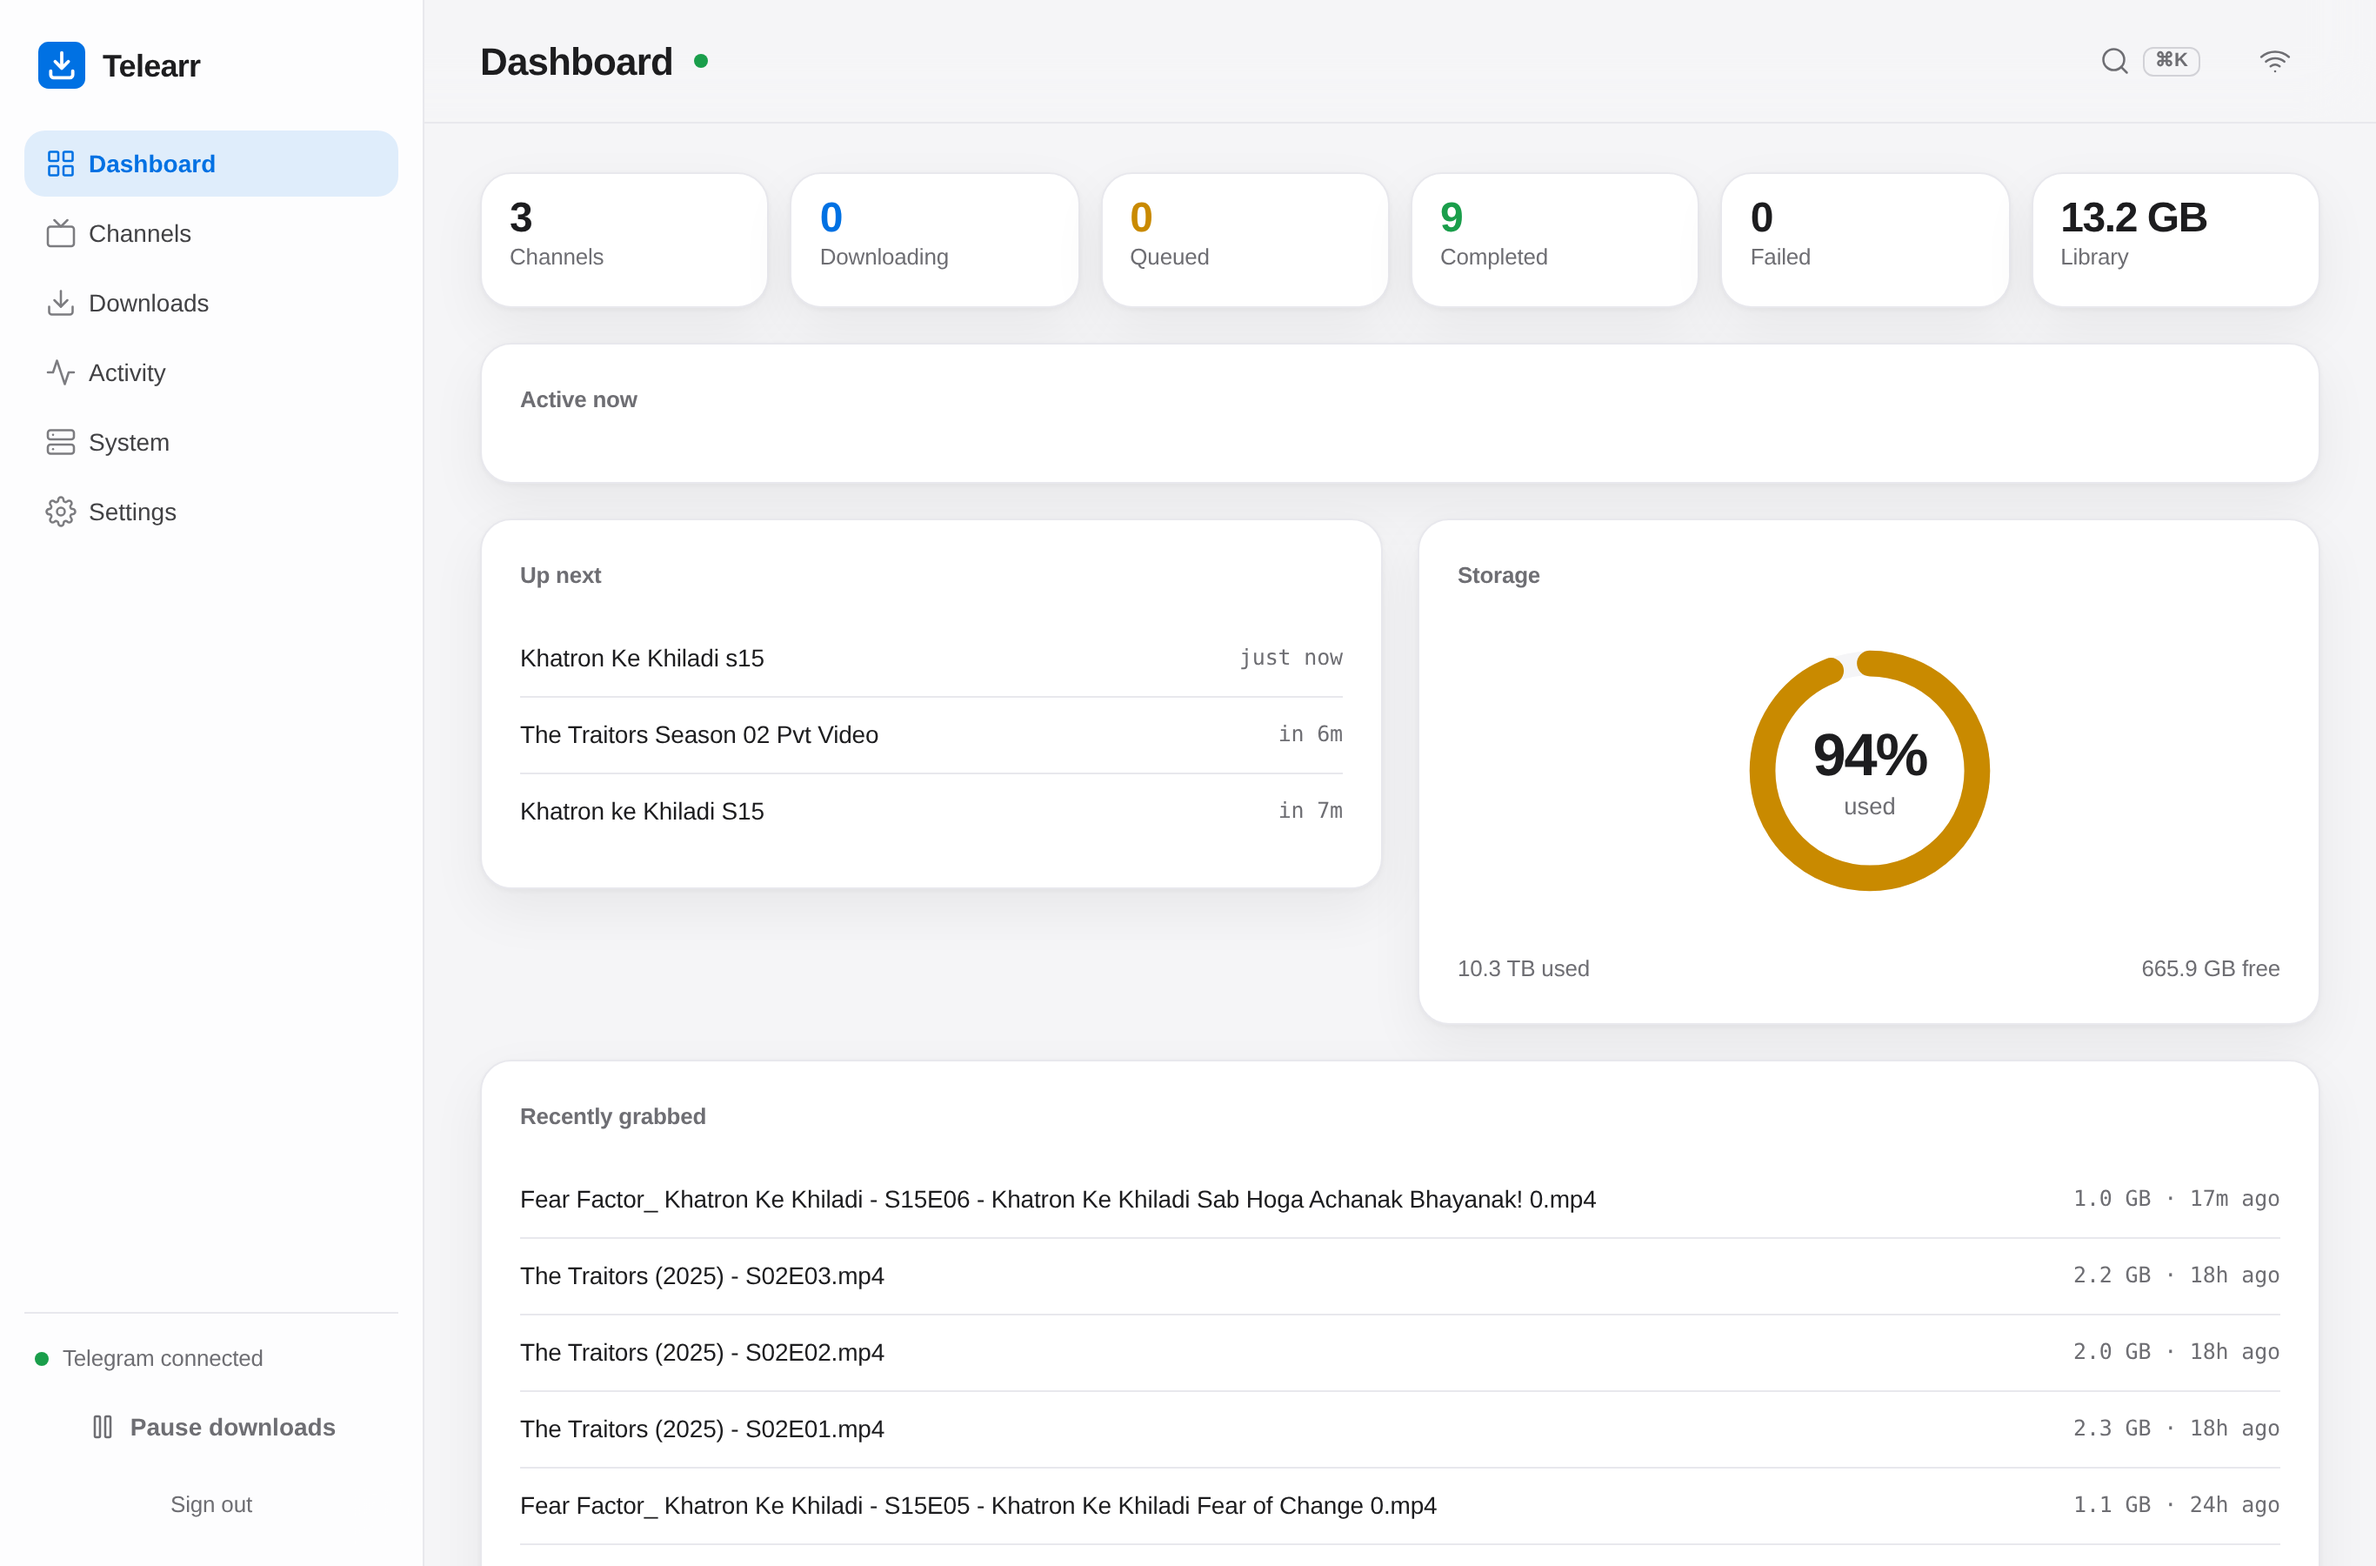
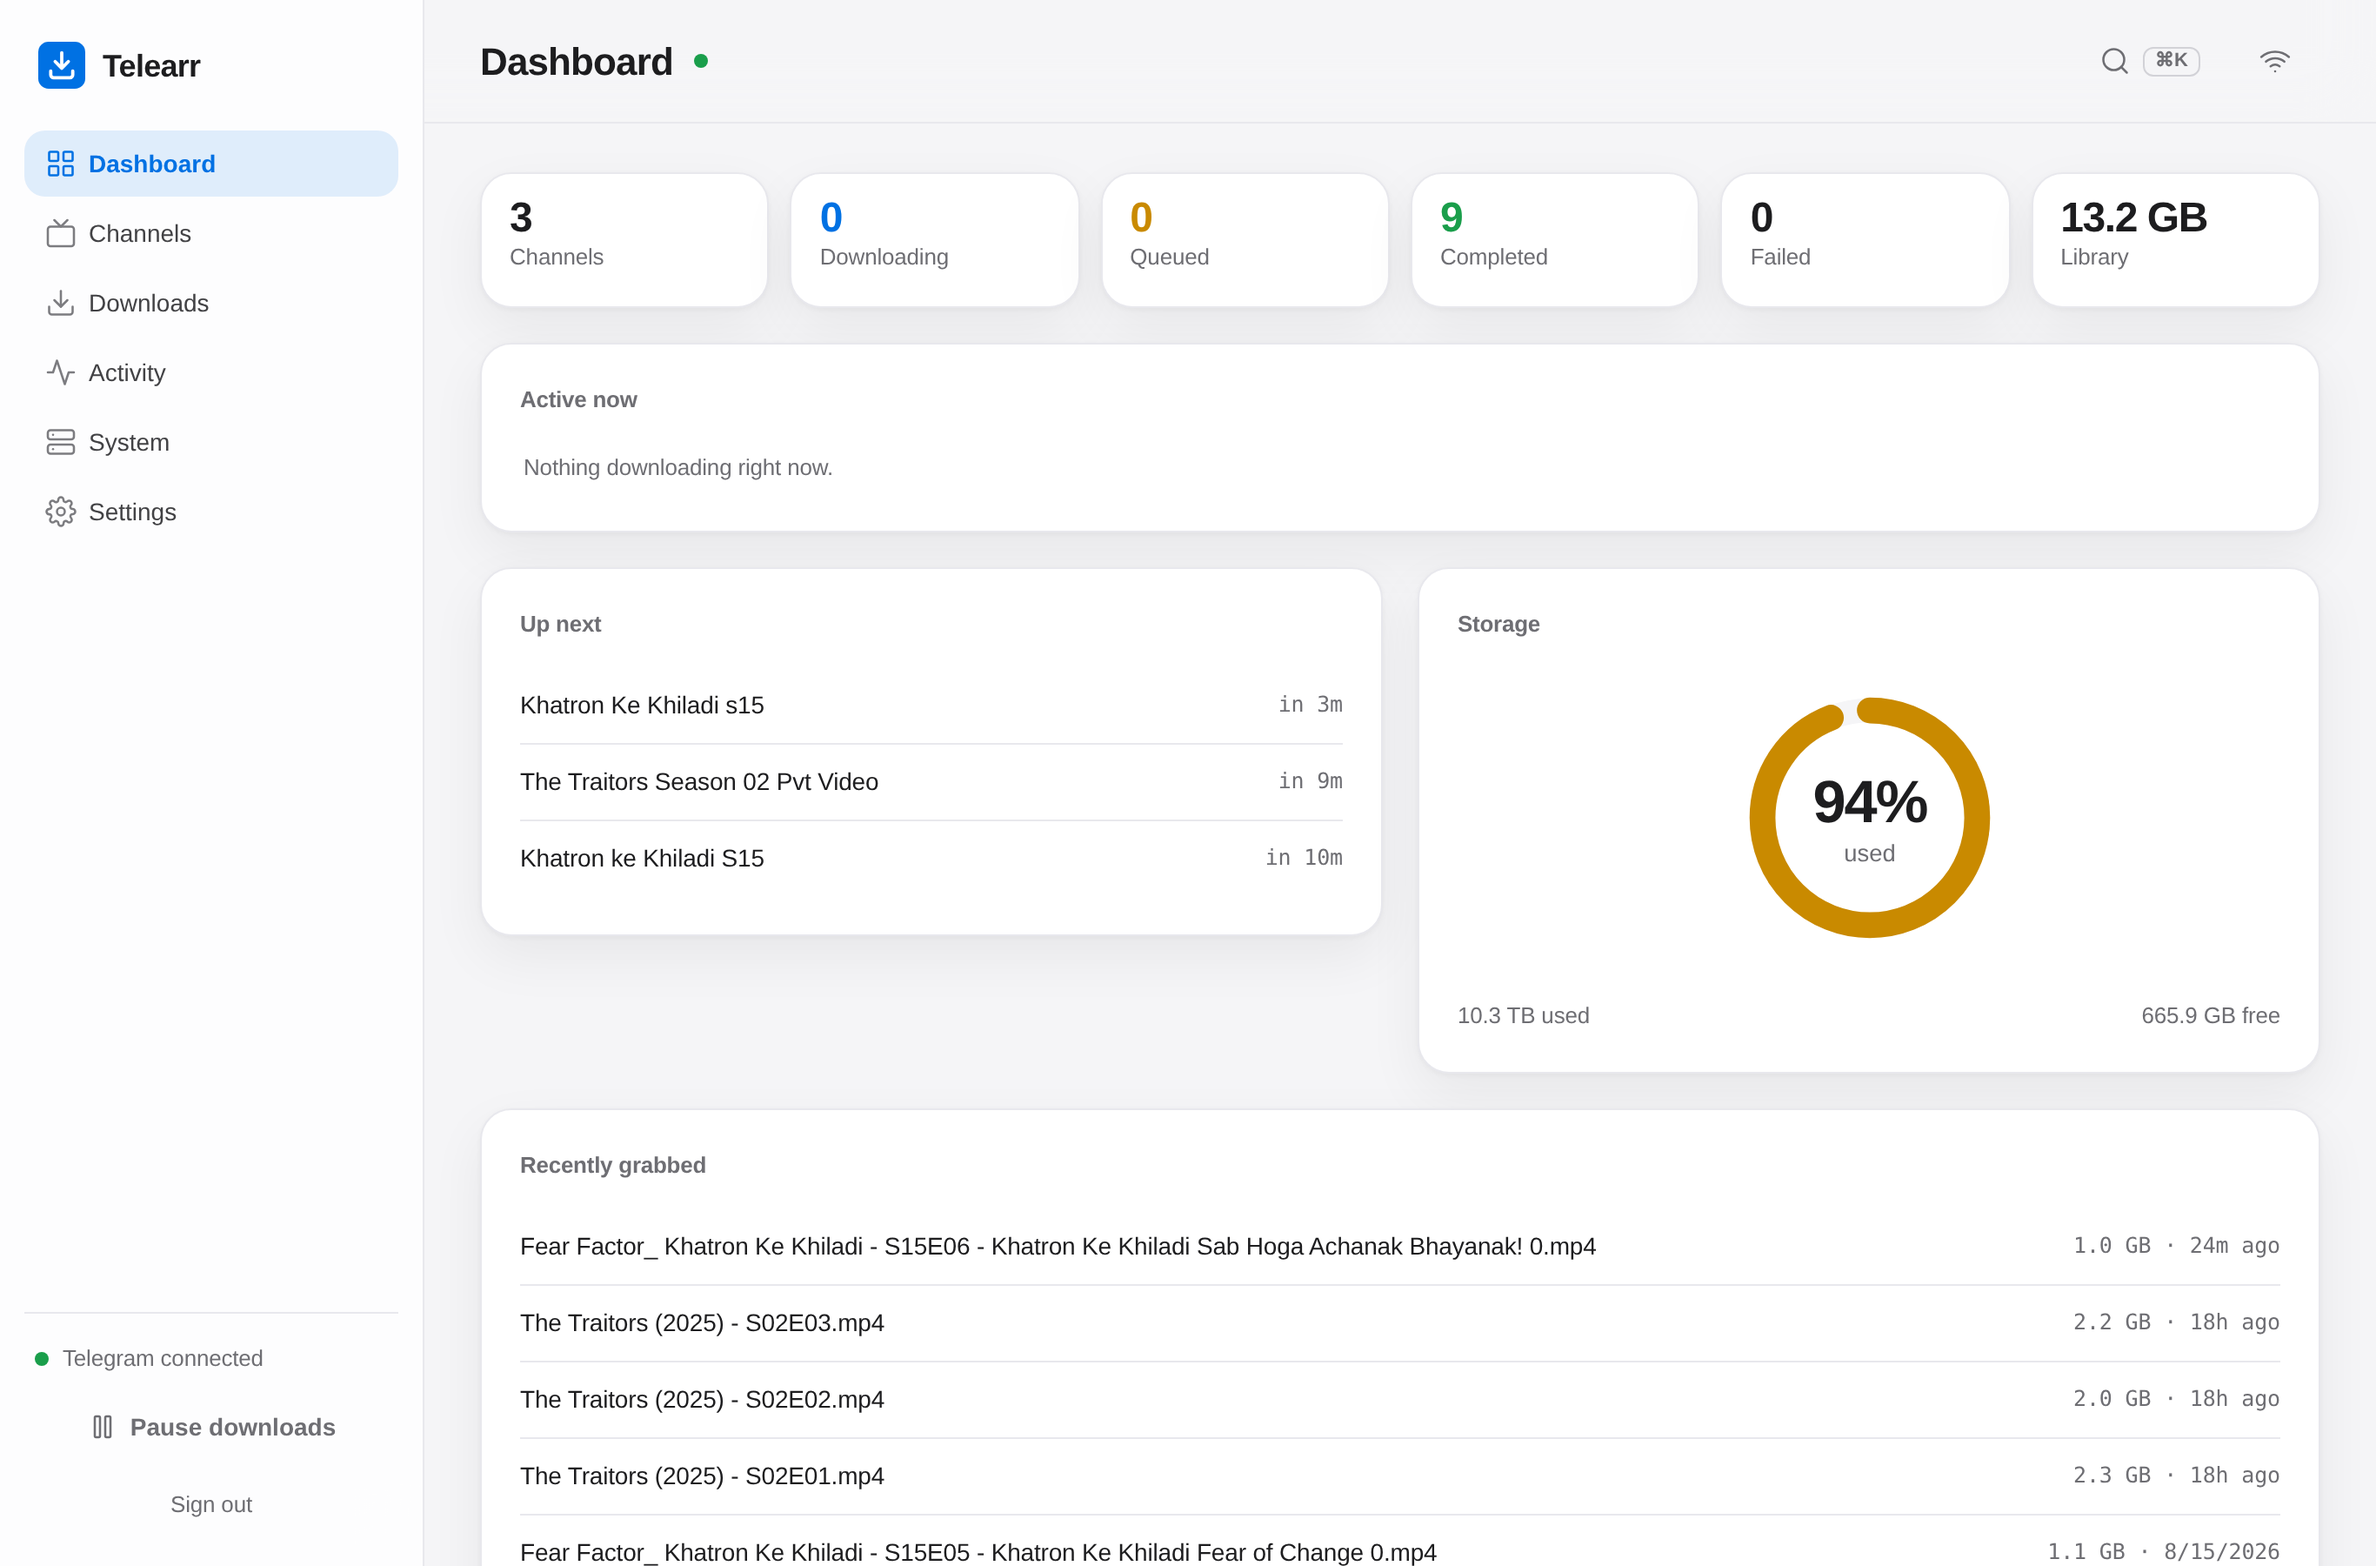
fix(mobile): System health rows, dashboard idle state, poster actions, drawer close
- System health rows: the OK/Warning badge orphaned onto its own line on
  phones — rebuild the row with grid-template-areas (dot | name/message | badge).
- Dashboard 'Active now': the first SSE tick wiped the idle placeholder, leaving
  an empty card — liveDashboard now re-renders 'Nothing downloading right now.'
- Poster-card actions stacked three-tall on touch; hide inline actions on
  touch (the poster tap opens the drawer, which has every action).
- Stronger contrast on the detail-drawer close button over bright hero art.

diff --git a/app/static/app.css b/app/static/app.css
@@ -350,8 +350,9 @@ body.dense .data-card th, body.dense .data-card td, body.dense .grp-body td { pa
 .ch-actions { display: flex; flex-wrap: wrap; gap: 6px; max-height: 0; opacity: 0; overflow: hidden;
   transition: max-height var(--t-base), opacity var(--t-fast); }
 .ch-card:hover .ch-actions, .ch-card:focus-within .ch-actions { max-height: 88px; opacity: 1; }
-/* touch devices have no hover — keep actions visible there */
-@media (hover: none) { .ch-actions { max-height: none; opacity: 1; } }
+/* touch devices have no hover — inline actions would stack tall and clutter, so
+   hide them; tapping the poster opens the drawer, which has every action. */
+@media (hover: none) { .ch-actions { display: none; } }
 .ch-actions .btn { padding: 6px 12px; font-size: 12.5px; }
 
 .empty-state { display: grid; place-items: center; gap: 12px; padding: 72px 16px; text-align: center; }
@@ -394,7 +395,8 @@ body.dense .data-card th, body.dense .data-card td, body.dense .grp-body td { pa
 .hero-wrap { position: relative; }
 .hero { height: 300px; background-size: cover; background-position: center 20%; background-color: var(--surface-2); }
 .hero-fade { position: absolute; inset: 0; background: linear-gradient(180deg, rgba(0,0,0,.08) 0%, transparent 42%, var(--surface) 100%); }
-.drawer-x { position: absolute; top: 14px; right: 14px; background: rgba(0,0,0,.5); color: #fff; border-color: transparent; backdrop-filter: blur(10px); border-radius: 50%; }
+.drawer-x { position: absolute; top: 14px; right: 14px; background: rgba(0,0,0,.62); color: #fff; border-color: transparent; backdrop-filter: blur(10px); border-radius: 50%; box-shadow: 0 2px 10px rgba(0,0,0,.5); }
+.drawer-x:hover { background: rgba(0,0,0,.78); }
 .drawer-body { padding: 0 26px 26px; }
 .drawer-head { display: flex; gap: 22px; margin-top: -84px; position: relative; }
 .drawer-poster { width: 148px; flex: 0 0 148px; aspect-ratio: 2/3; border-radius: var(--r-md); overflow: hidden; background: var(--surface-2); box-shadow: var(--shadow-raised); display: grid; place-items: center; }
@@ -423,8 +425,16 @@ body.dense .data-card th, body.dense .data-card td, body.dense .grp-body td { pa
 .info-k { color: var(--muted); font-size: 13px; }
 .info-v { font-size: 13px; word-break: break-word; }
 @media (max-width: 620px) {
-  .sys-hrow { grid-template-columns: auto 1fr auto; row-gap: 4px; }
-  .sys-hrow .sys-hmsg { grid-column: 2 / -1; }
+  /* dot | name-over-message | badge — via areas so the badge can't orphan */
+  .sys-hrow {
+    grid-template-columns: auto 1fr auto;
+    grid-template-areas: "dot name badge" "dot msg badge";
+    column-gap: 12px; row-gap: 1px;
+  }
+  .sys-hrow > .dot { grid-area: dot; }
+  .sys-hname { grid-area: name; }
+  .sys-hmsg { grid-area: msg; }
+  .sys-hrow > .pill { grid-area: badge; align-self: center; }
   .info-grid { grid-template-columns: 1fr; gap: 2px 0; }
   .info-k { margin-top: 10px; }
 }

diff --git a/app/static/js/views.js b/app/static/js/views.js
@@ -161,7 +161,11 @@ export function liveDashboard(ctx) {
     if (pctEl) pctEl.textContent = Math.round(pct * 100) + "%";
     const leg = document.querySelector("#disk-legend"); if (leg) mount(leg, ...diskLegend(disk));
   }
-  const da = document.querySelector("#dash-active"); if (da) mount(da, ...activeList(ctx.data.downloads, ctx));
+  const da = document.querySelector("#dash-active");
+  if (da) {
+    const items = activeList(ctx.data.downloads, ctx);
+    mount(da, ...(items.length ? items : [h("div", { class: "dash-idle muted small" }, "Nothing downloading right now.")]));
+  }
   const speed = (ctx.data.status && ctx.data.status.speed) || 0;
   const sp = document.querySelector("#dash-speed"); if (sp) sp.textContent = speed > 0 ? speed.toFixed(1) + " MB/s" : "";
 }
